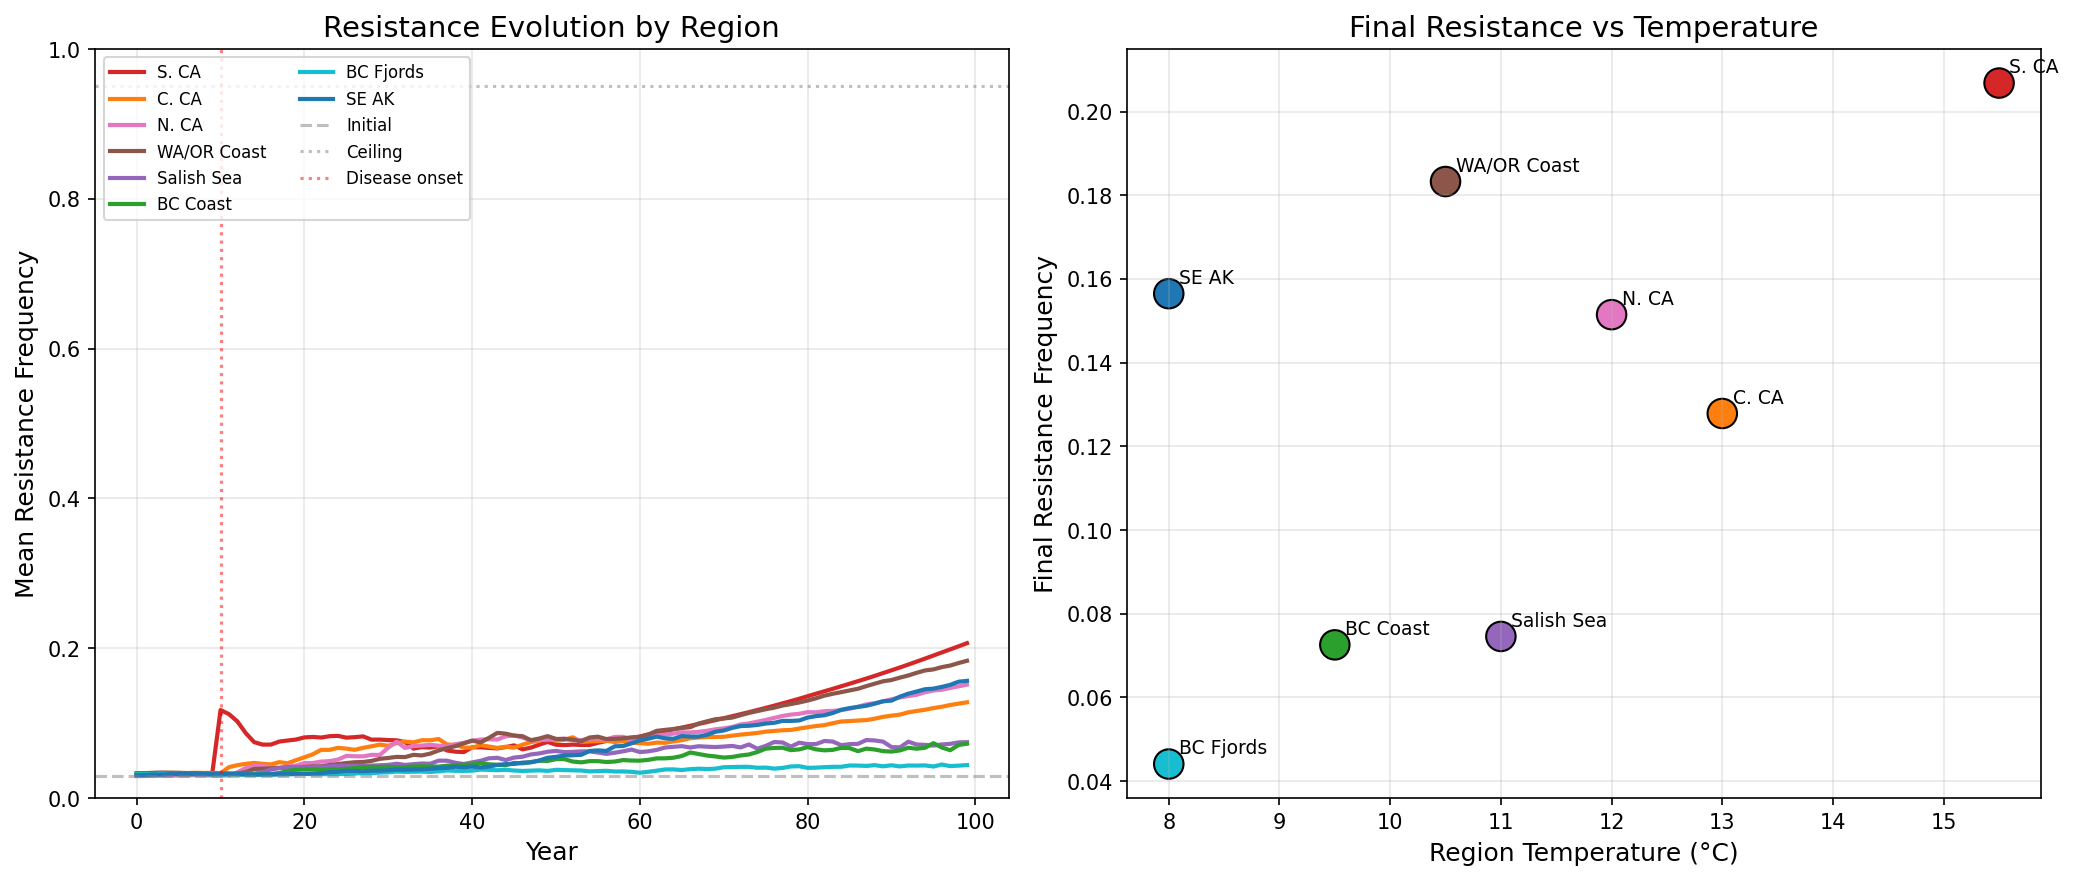
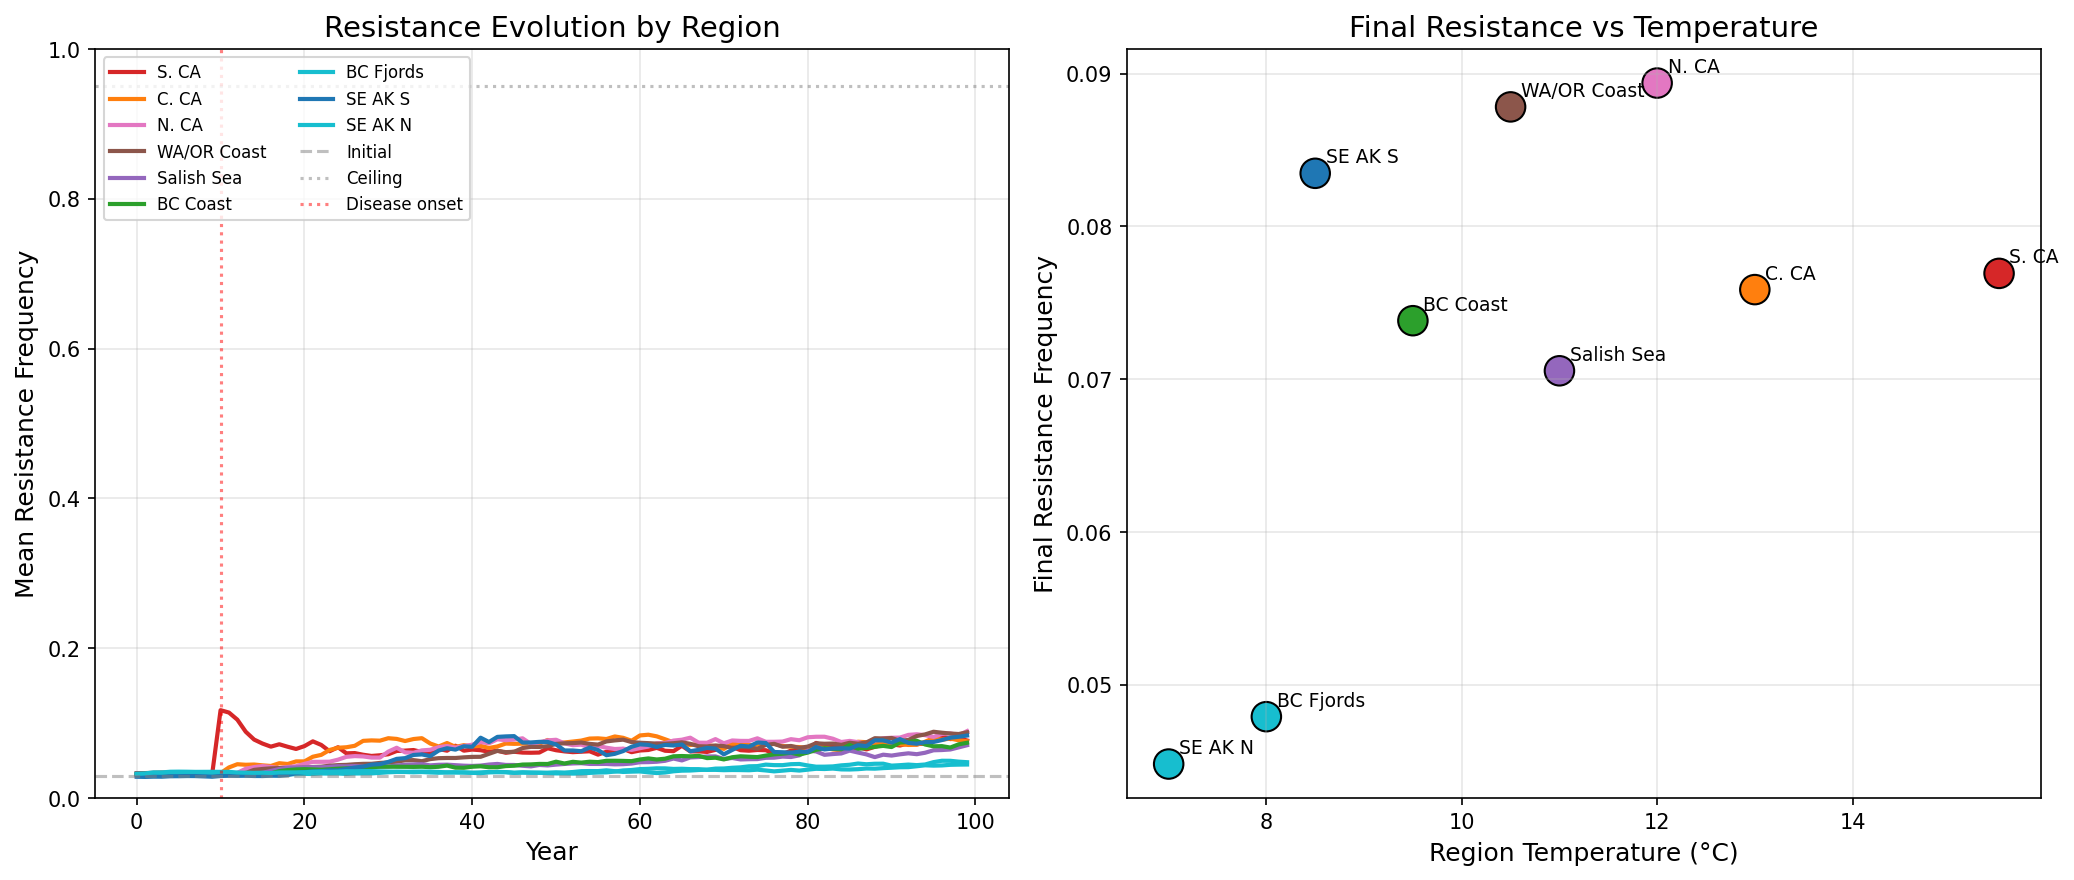
feat: split SE Alaska into south (decimated) + north fjords (refugia)
9 regions now: S.CA, C.CA, N.CA, WA/OR, Salish Sea, BC Coast, BC Fjords, SE AK South, SE AK North

Calibration results:
- SE AK North (fjords): 69.9% survival ✓
- SE AK South: 0% ✓
- Overall: 95.1% decline ✓
- Salish Sea: 1.3% ✓
- S. California: 0.3% ✓
- BC Fjords: 13.5% (target 30-70%, needs tuning)

diff --git a/run_pacific_coast.py b/run_pacific_coast.py
@@ -370,7 +370,10 @@ def plot_population_trajectories_by_region(result: PacificCoastResult):
     save_figure(fig1, "04_population_trajectories")
     
     # --- Separate subplots per region ---
-    fig2, axes = plt.subplots(2, 4, figsize=(16, 10))
+    n_regions = len(REGION_ORDER)
+    ncols = min(4, n_regions)
+    nrows = (n_regions + ncols - 1) // ncols
+    fig2, axes = plt.subplots(nrows, ncols, figsize=(16, 4 * nrows))
     axes = axes.flatten()
     
     for i, region_id in enumerate(REGION_ORDER):
@@ -556,7 +559,10 @@ def plot_resistance_evolution(result: PacificCoastResult):
     save_figure(fig, "06_resistance_evolution")
     
     # --- Detailed: resistance + disease + population overlay ---
-    fig2, axes2 = plt.subplots(2, 4, figsize=(16, 10))
+    n_regions = len(REGION_ORDER)
+    ncols = min(4, n_regions)
+    nrows = (n_regions + ncols - 1) // ncols
+    fig2, axes2 = plt.subplots(nrows, ncols, figsize=(16, 4 * nrows))
     axes2 = axes2.flatten()
     
     for i, region_id in enumerate(REGION_ORDER):
@@ -594,7 +600,8 @@ def plot_regional_summary_dashboard(result: PacificCoastResult):
     years = result.years
     config = result.config
     
-    fig, axes = plt.subplots(3, 8, figsize=(24, 10))
+    n_regions = len(REGION_ORDER)
+    fig, axes = plt.subplots(3, n_regions, figsize=(3 * n_regions, 10))
     
     metrics = ['population_ratio', 'resistance', 'disease_prevalence']
     titles = ['Population Ratio', 'Resistance Freq', 'Disease Prevalence']
@@ -783,7 +790,8 @@ def print_summary_statistics(result: PacificCoastResult):
     
     # Check if results match observed patterns
     checks = [
-        ("SE Alaska ~40% survival", final_summary["se_alaska"]["population_ratio"], 0.3, 0.6),
+        ("SE Alaska North (fjords) ~60% survival", final_summary.get("se_alaska_north", {}).get("population_ratio", 0), 0.3, 0.7),
+        ("SE Alaska South ~10% survival", final_summary.get("se_alaska_south", {}).get("population_ratio", 0), 0.0, 0.20),
         ("BC Fjords ~50% survival (refugia)", final_summary["bc_fjords"]["population_ratio"], 0.3, 0.7),
         ("Salish Sea <5% survival", final_summary["salish_sea"]["population_ratio"], 0.0, 0.10),
         ("S. California ~0% survival", final_summary["s_california"]["population_ratio"], 0.0, 0.05),

diff --git a/pycnopodia/pacific_coast.py b/pycnopodia/pacific_coast.py
@@ -43,18 +43,31 @@ class RegionConfig:
 
 # Define the 8 Pacific Coast regions
 PACIFIC_COAST_REGIONS = {
-    "se_alaska": RegionConfig(
-        name="Southeast Alaska",
-        short_name="SE AK",
-        latitude_range=(55.0, 60.0),
+    "se_alaska_south": RegionConfig(
+        name="SE Alaska (Southern)",
+        short_name="SE AK S",
+        latitude_range=(55.0, 57.5),
         region_type=RegionType.OUTER_COAST,
-        base_temperature=8.0,  # 7-9°C range
+        base_temperature=8.5,  # Warmer southern range
         temperature_variance=2.0,
         warming_rate=0.2,
         historical_density=0.7,
-        post_sswd_survival=0.40,  # 60% decline
-        n_sites=40,
+        post_sswd_survival=0.10,  # Southern range decimated
+        n_sites=20,
         color='#1f77b4',  # Blue
+    ),
+    "se_alaska_north": RegionConfig(
+        name="SE Alaska (Northern Fjords)",
+        short_name="SE AK N",
+        latitude_range=(57.5, 60.0),
+        region_type=RegionType.FJORD,  # Northern fjords = refugia
+        base_temperature=7.0,  # Coldest region
+        temperature_variance=1.5,
+        warming_rate=0.15,
+        historical_density=0.5,
+        post_sswd_survival=0.60,  # Where survivors retreated
+        n_sites=20,
+        color='#17becf',  # Cyan
     ),
     "bc_outer": RegionConfig(
         name="BC Outer Coast",
@@ -160,7 +173,8 @@ REGION_ORDER = [
     "salish_sea",  # Overlaps with WA/OR latitudinally but is inland
     "bc_outer",
     "bc_fjords",   # Part of BC coast
-    "se_alaska",
+    "se_alaska_south",
+    "se_alaska_north",  # Northern fjords = refugia
 ]
 
 
